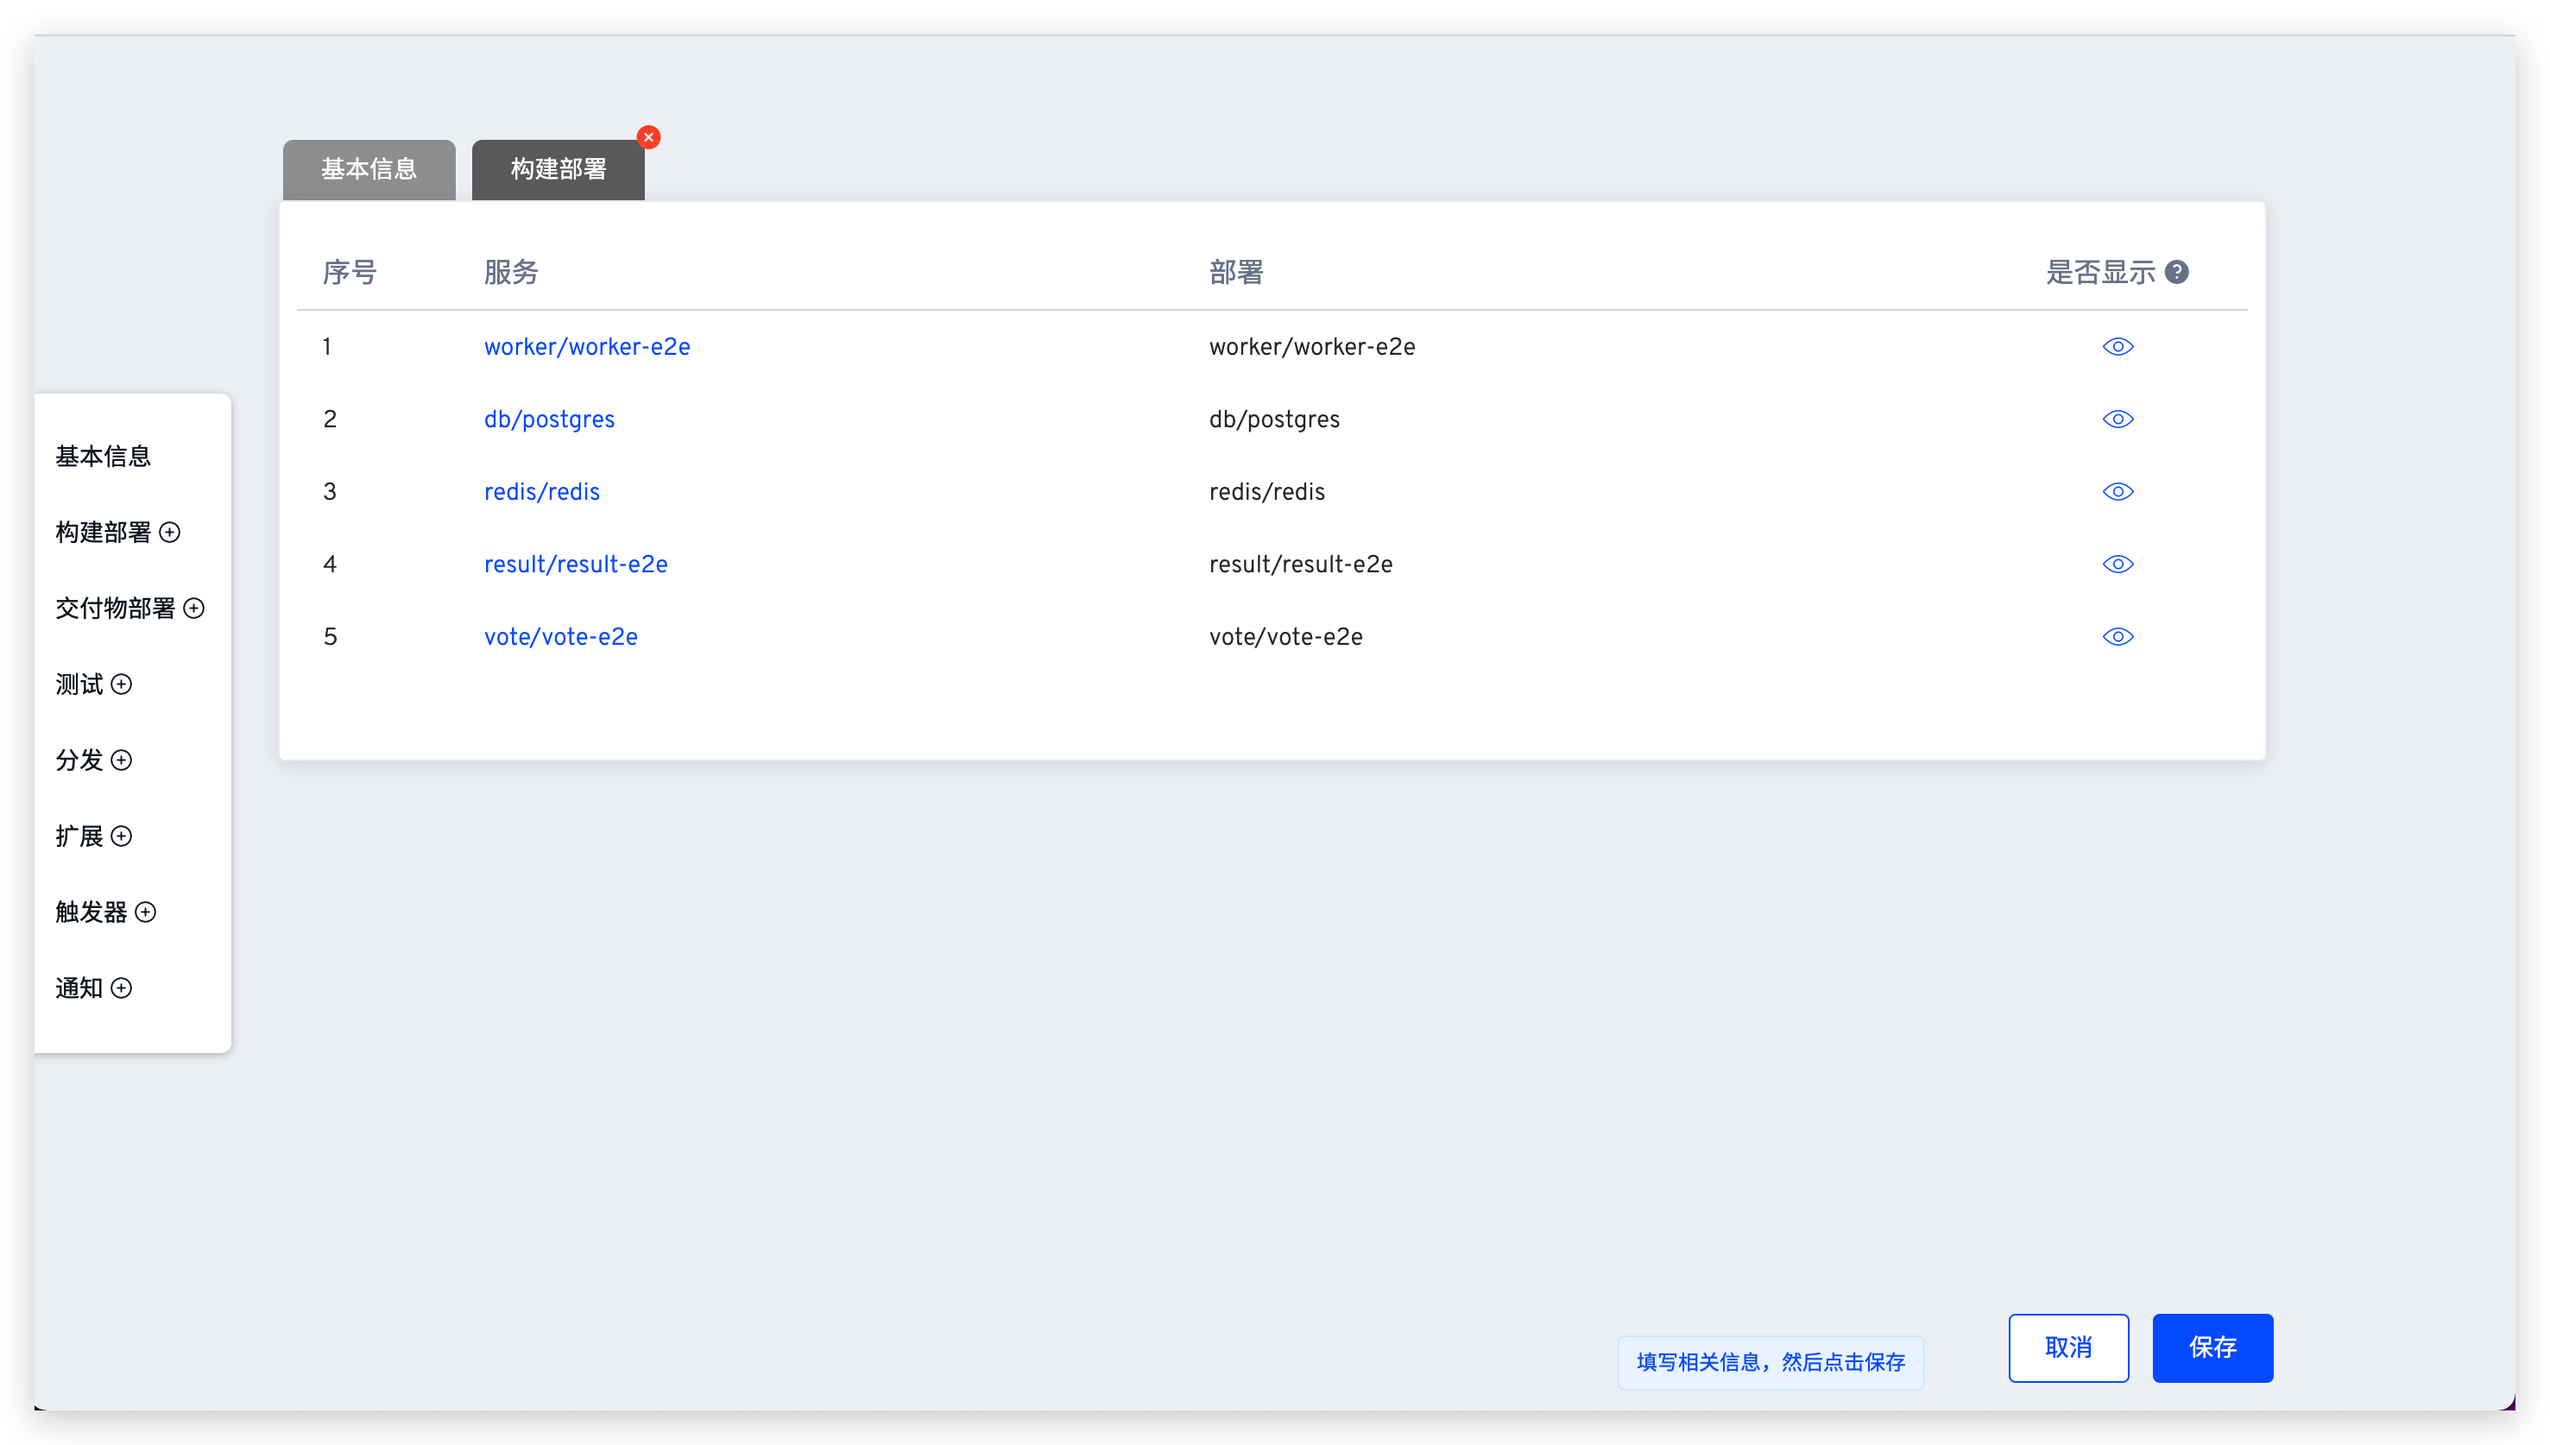
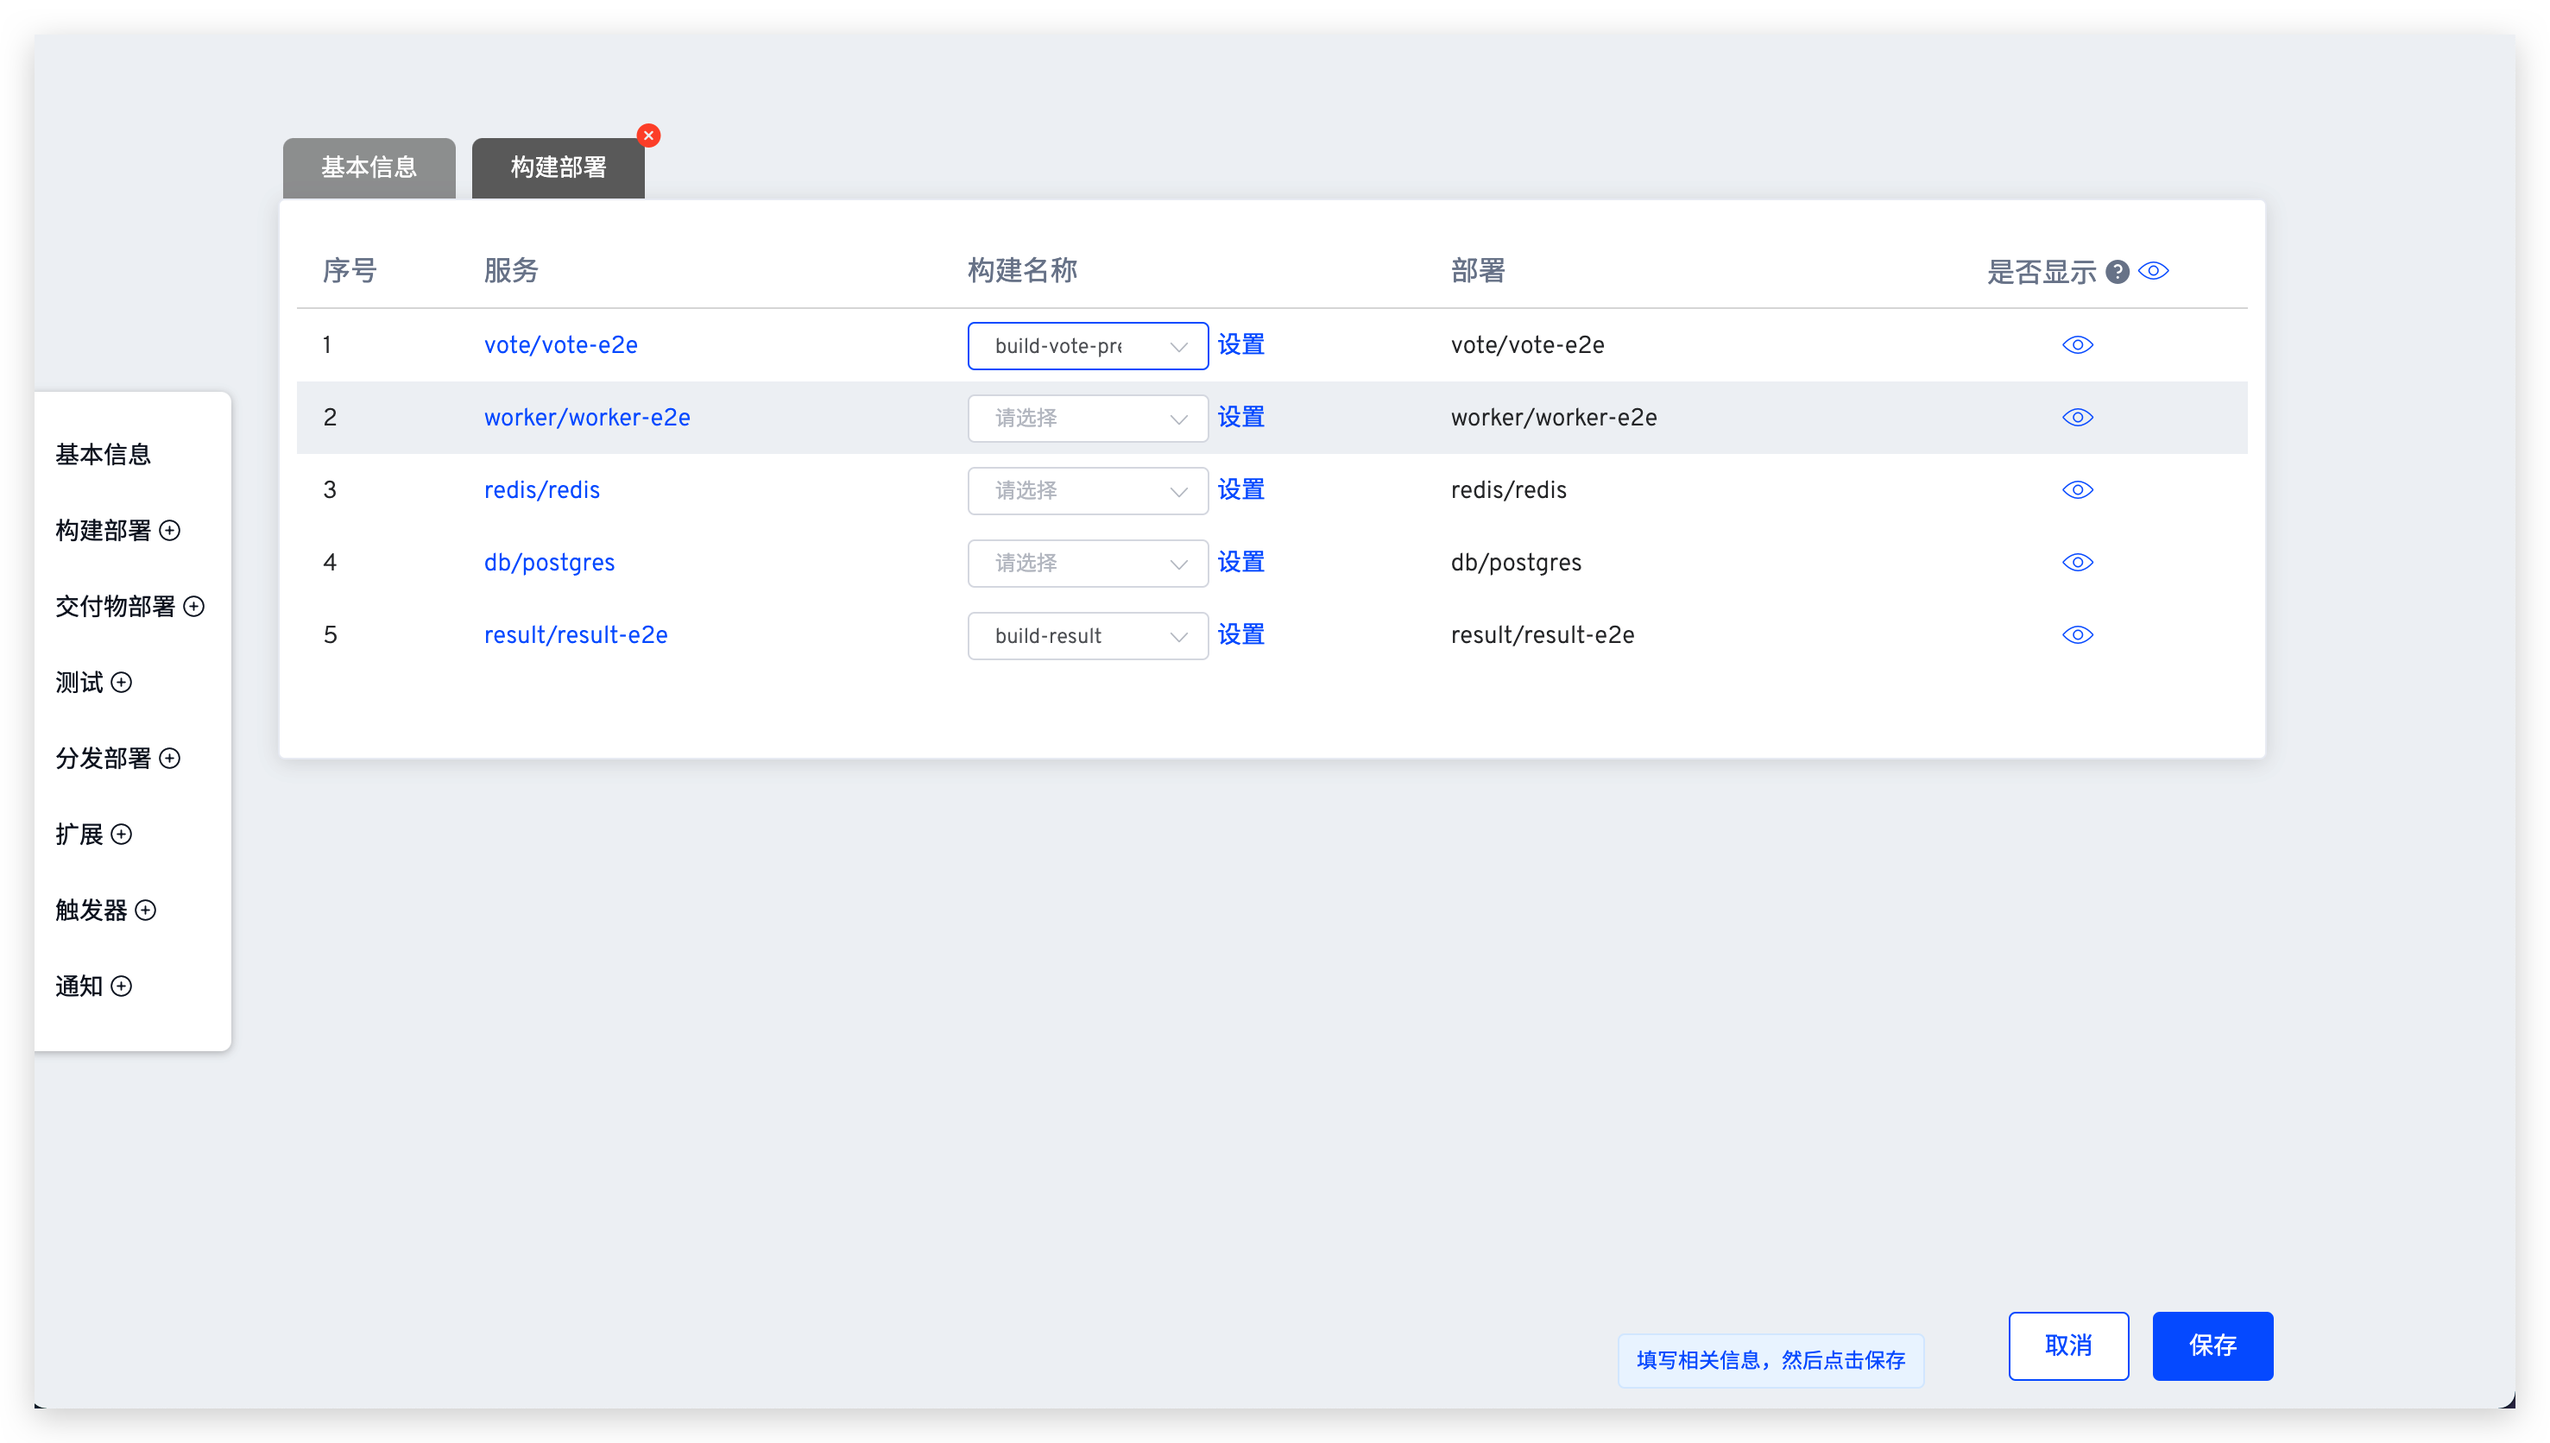
repo setting in build config

diff --git a/dev/04.项目/02.workflow.md b/dev/04.项目/02.workflow.md
@@ -43,10 +43,21 @@ permalink: /dev/project/workflow/
 字段说明：
 
 - `服务`：内容的格式为`服务名/服务组件名`，点击服务可跳转查看该服务的配置详情。关于服务组件的概念可阅读[服务组件](/dev/quick-start/concepts/#服务组件)。
+- `构建名称`：选择该服务使用的构建配置，点击右侧的`设置`可自定义工作流执行时的代码过滤规则，参考：[构建设置](#构建设置)。
 - `部署`：内容的格式为`服务名/服务组件名`。
 - `是否显示`：用于设置在启动工作流任务时，是否在服务列表中显示该服务。上图例中设置 `redis` 服务为不显示后，运行工作流时效果见下图：
 
 ![workflow](./_images/workflow_build_2.png)
+
+#### 构建设置
+
+选择代码库并添加正则表达式形式的 `Branch/Tag 过滤规则`。
+
+![workflow](./_images/workflow_repo_config.png)
+
+保存修改后，在运行工作流时可选择符合正则匹配的 Branch/Tag 对服务进行构建。
+
+![workflow](./_images/workflow_repo_config_effect.png)
 
 ### 交付物部署
 
